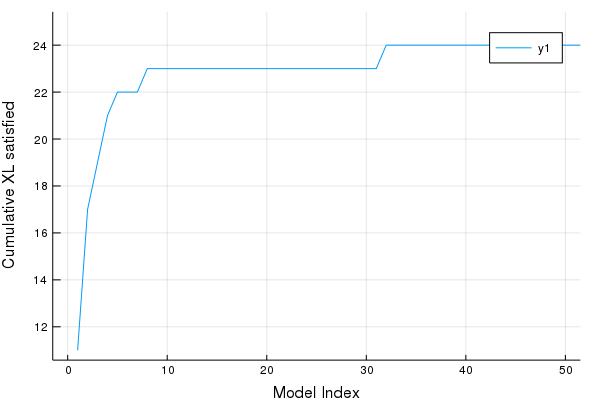
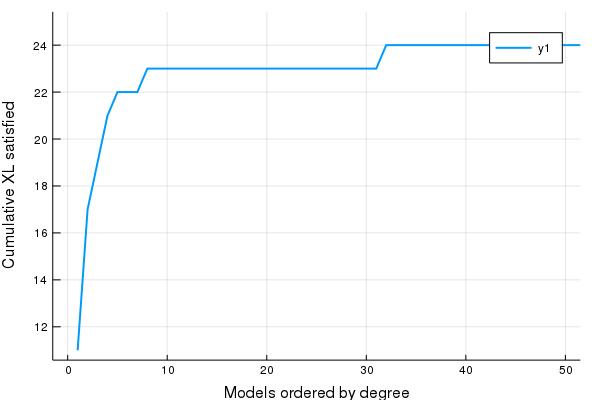
updated readme

diff --git a/julia/README.md b/julia/README.md
@@ -76,8 +76,8 @@ data is sorted by the `linkensemble` function by the chosen model
 property. To plot the result, do  
 
 ```
-plot( index(models), nsatisfied, xlabel="Model Index", ylabel="Cumulative XL satisfied" )
-plot!(xlim=[0,50],linewidth=2)
+plot( index(models), nsatisfied, xlabel="Models ordered by degree", ylabel="Cumulative XL satisfied", linewidth=2 )
+plot!(xlim=[0,50])
 ```
 
 producing the linkensemble plot:
